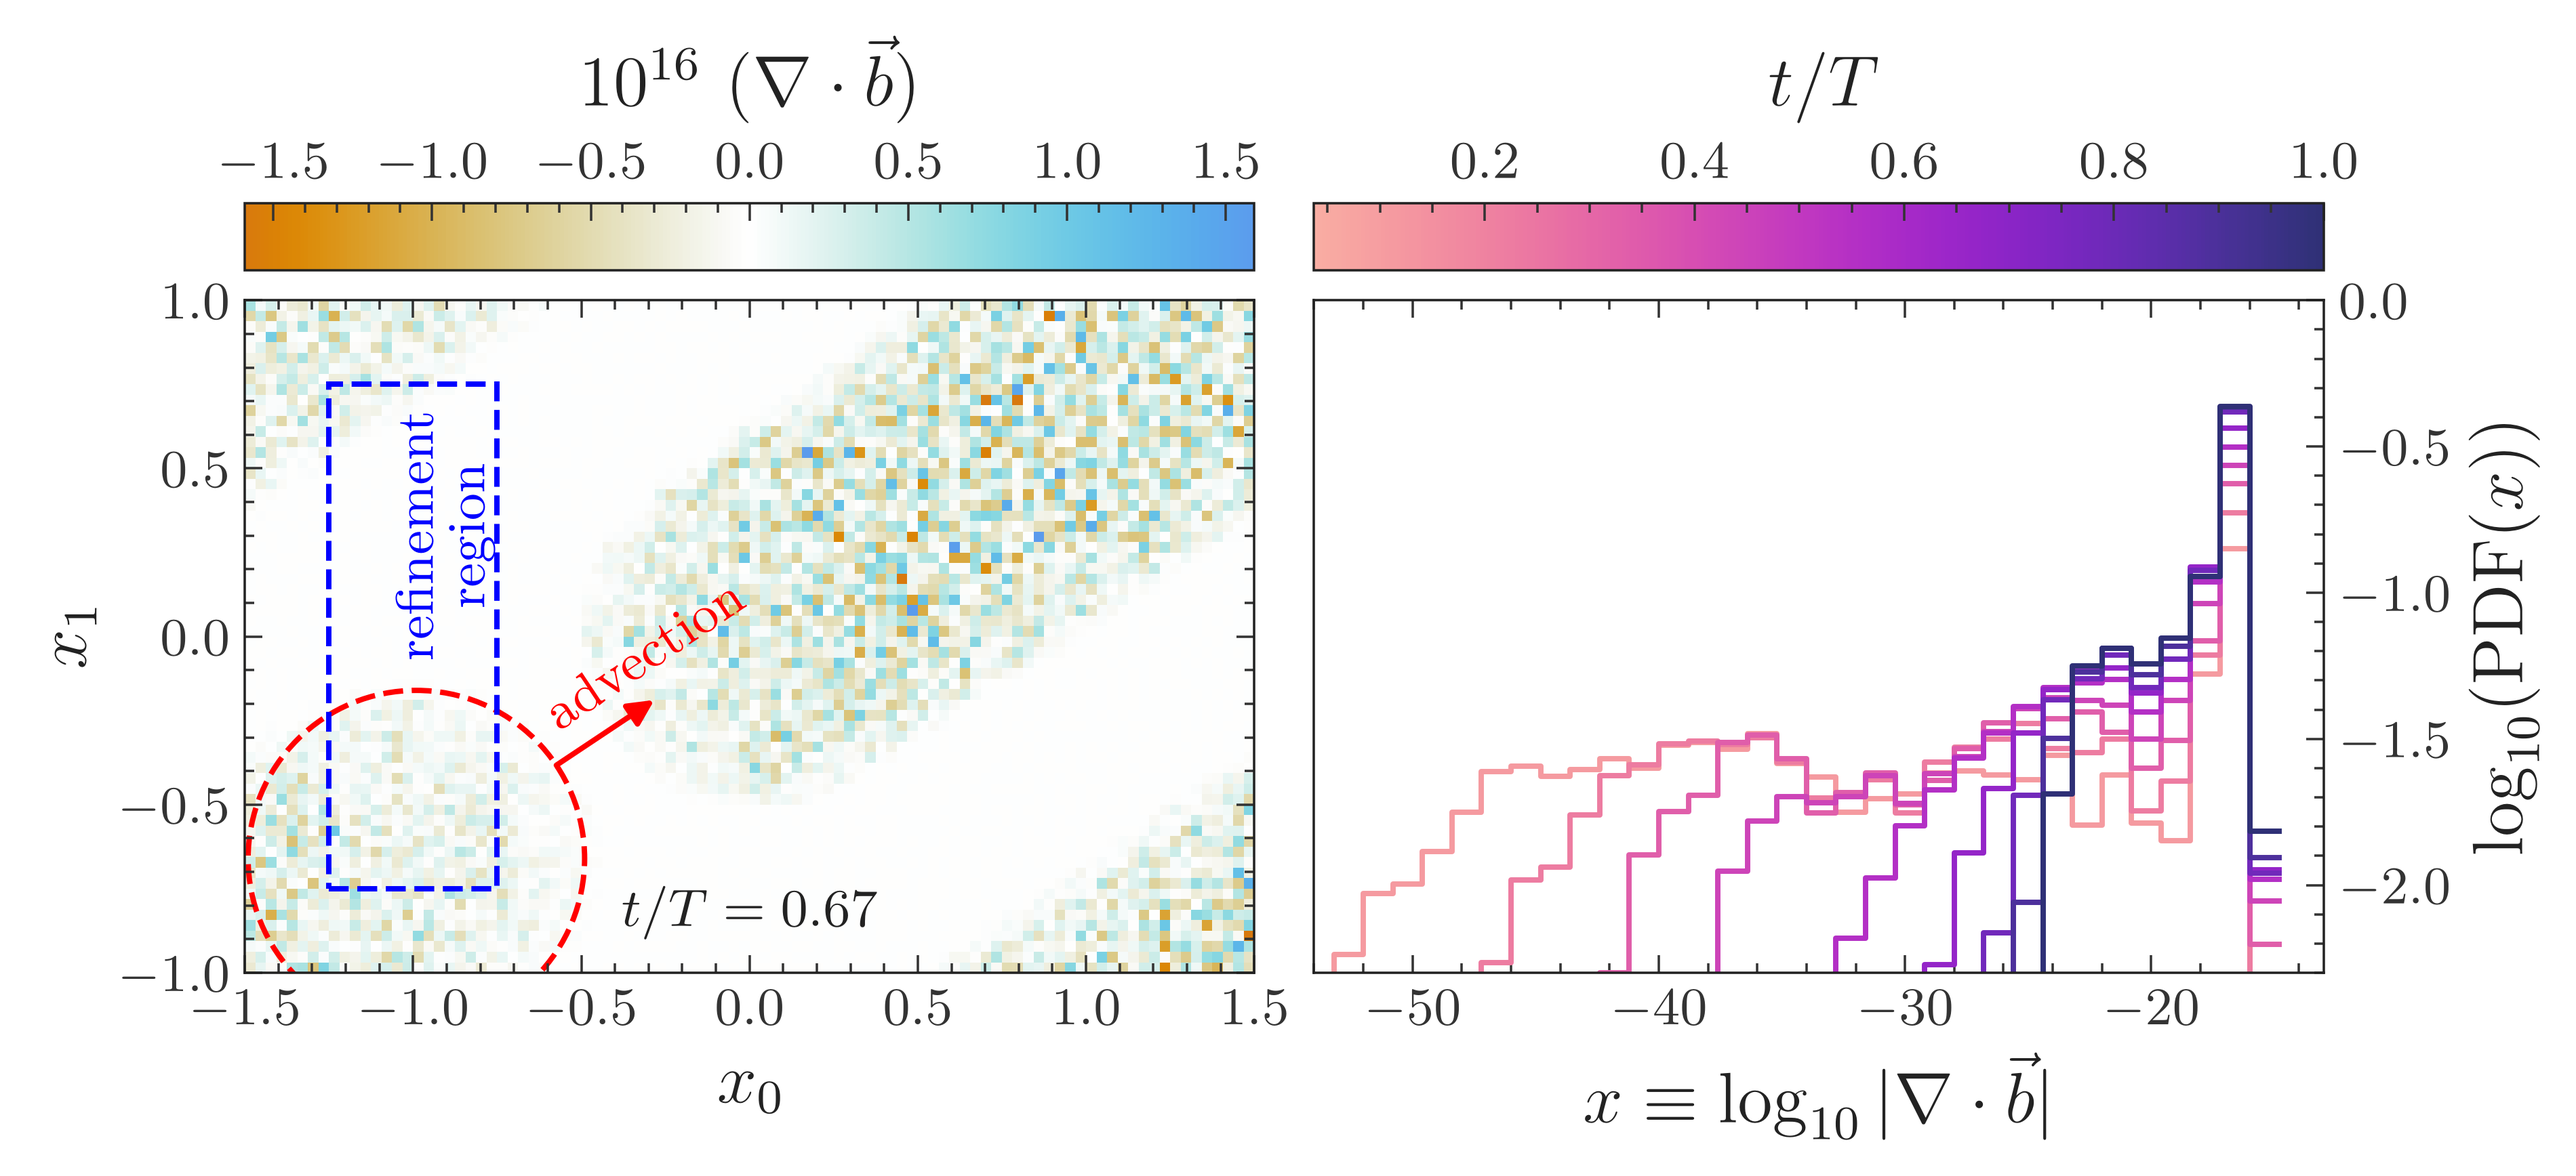
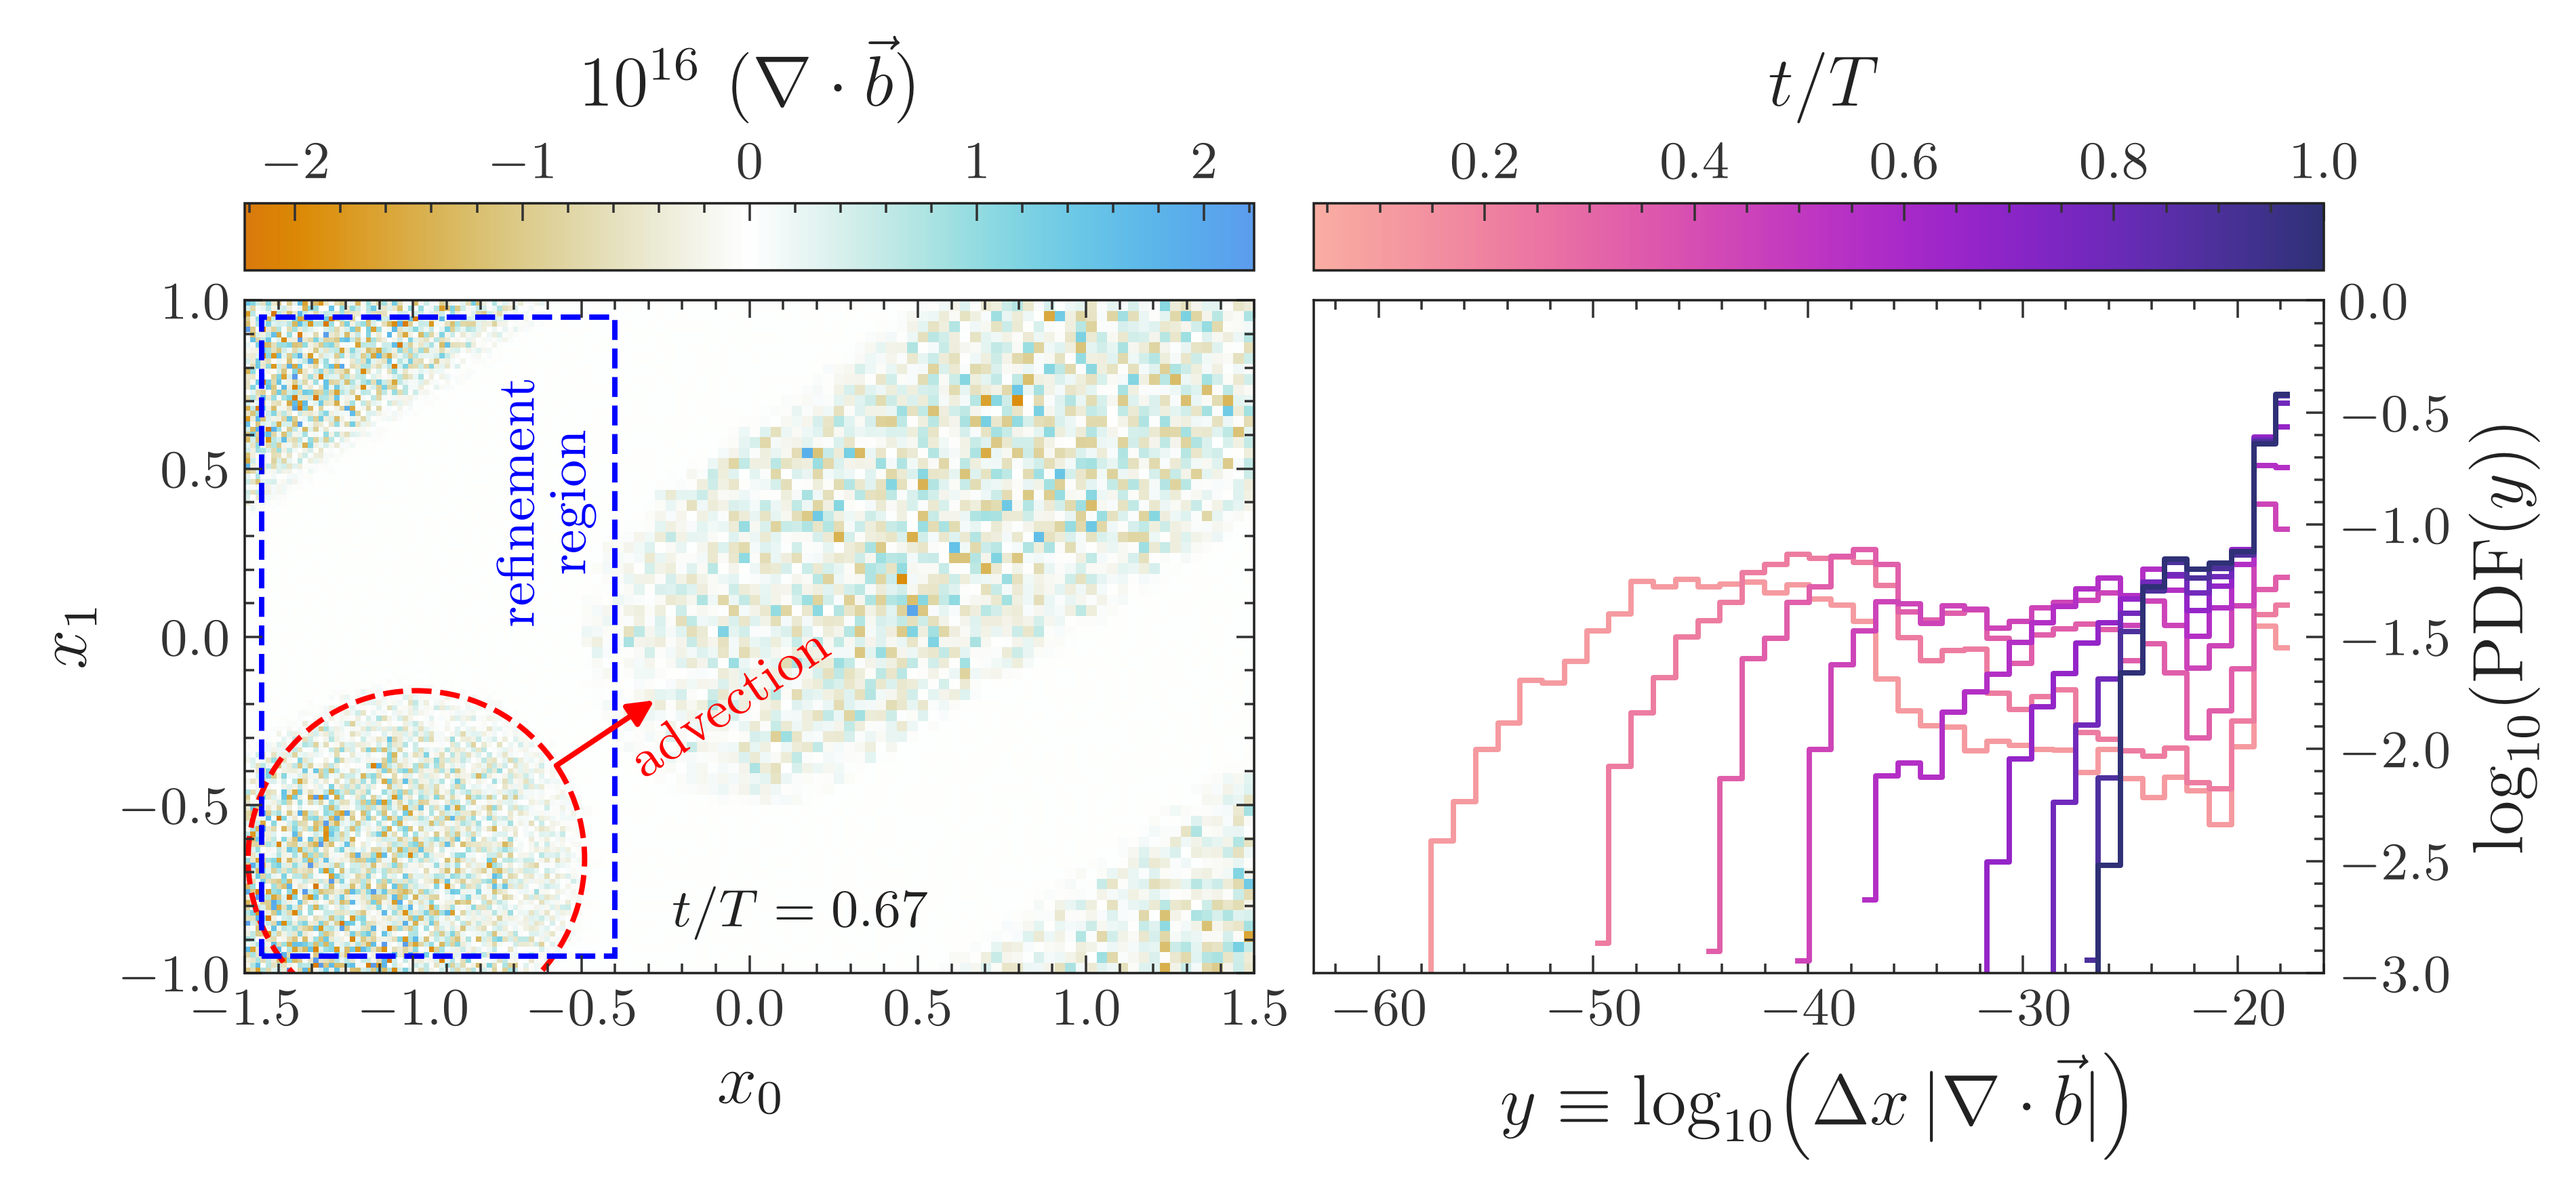
update-content(scripts/problems/field-loop/plot_div_b.py): migrate to pdfs/slices diagnostics; retune arrow and inset placement.

diff --git a/scripts/problems/field-loop/plot_div_b.py b/scripts/problems/field-loop/plot_div_b.py
@@ -16,7 +16,6 @@ from matplotlib import patches as mpl_patches
 from numpy import typing as numpy_typing
 
 ## personal
-from jormi.ww_arrays import compute_array_stats
 from jormi.ww_io import manage_io
 from jormi.ww_plots import (
     add_color,
@@ -26,7 +25,8 @@ from jormi.ww_plots import (
     style_figure,
 )
 from jormi.ww_types import box_positions
-from ww_quokka_sims.sim_io import find_snapshots
+from ww_quokka_sims.sim_io.field_diagnostics import pdfs, slices
+from ww_quokka_sims.sim_io.snapshots import find_snapshots
 
 ## local
 from local_helpers import paper_style
@@ -34,12 +34,6 @@ from local_helpers import paper_style
 ##
 ## === DATA STRUCTURES
 ##
-
-
-@dataclass(frozen=True)
-class Slice:
-    step_time: float
-    sarray_2d: numpy_typing.NDArray[numpy.floating]
 
 
 @dataclass(frozen=True)
@@ -67,18 +61,6 @@ AXIS_BOUNDS: plot_data.AxisRanges = ((-1.5, 1.5), (-1.0, 1.0))
 ##
 
 
-def load_slice(
-    *,
-    slice_path: Path,
-) -> Slice:
-    """Load the time and two-dimensional field from one saved slice."""
-    with numpy.load(slice_path) as data:
-        return Slice(
-            step_time=float(data["step_time"]),
-            sarray_2d=data["sarray_2d"],
-        )
-
-
 def compute_symmetric_bounds(
     *,
     field: numpy_typing.NDArray[numpy.floating],
@@ -91,15 +73,6 @@ def compute_symmetric_bounds(
         ),
     )
     return (-bound, bound)
-
-
-def compute_log10_absolute_divb(
-    *,
-    sarray_2d: numpy_typing.NDArray[numpy.floating],
-) -> numpy_typing.NDArray[numpy.floating]:
-    """Drop zero/non-finite cells (outside the loop), then take log10 of the magnitude."""
-    nonzero_finite = numpy.isfinite(sarray_2d) & (sarray_2d != 0.0)
-    return numpy.log10(numpy.abs(sarray_2d[nonzero_finite]))
 
 
 def compute_loop_center_at_time(
@@ -156,11 +129,11 @@ def add_advection_arrow(
         },
     )
     panel.text(
-        arrow_start[0] + 0.025,
-        arrow_start[1] + 0.075,
+        arrow_start[0] + 0.2,
+        arrow_start[1] + 0.05,
         "advection",
         ha="left",
-        va="bottom",
+        va="top",
         color="red",
         rotation=180 / numpy.pi * numpy.atan(2 / 3),
         rotation_mode="anchor",
@@ -177,53 +150,36 @@ def plot_pdf_panel(
     *,
     panel: manage_figure.Panel,
     problem_setup: ProblemSetup,
-    divb_series: tuple[Slice, ...],
+    divb_pdf_series: tuple[pdfs.PDFData, ...],
 ) -> None:
-    num_pdf_bins = 50
     num_pdf_times = 10
     figure_params = style_figure.get_figure_params()
-    finite_slices = [
-        divb_slice for divb_slice in divb_series
-        if numpy.any(numpy.isfinite(divb_slice.sarray_2d) & (divb_slice.sarray_2d != 0.0))
-    ]
-    sampled_indices = numpy.linspace(0, len(finite_slices) - 1, num_pdf_times, dtype=int)
-    sampled_slices = [finite_slices[index] for index in sampled_indices]
-    pdf_bin_edges = numpy.linspace(-70, -10, num_pdf_bins + 1)
-    pdf_bin_centers = 0.5 * (pdf_bin_edges[:-1] + pdf_bin_edges[1:])
+    sampled_indices = numpy.linspace(0, len(divb_pdf_series) - 1, num_pdf_times, dtype=int)
+    sampled_pdfs = [divb_pdf_series[index] for index in sampled_indices]
     time_palette = add_color.make_palette(
         config=add_color.SequentialConfig(
             palette_name="cmr.bubblegum_r",
             palette_range=(0.05, 0.85),
         ),
         value_range=(
-            divb_series[1].step_time / problem_setup.period,
-            divb_series[-1].step_time / problem_setup.period,
+            divb_pdf_series[1].step_time / problem_setup.period,
+            divb_pdf_series[-1].step_time / problem_setup.period,
         ),
     )
-    for sample_slice in sampled_slices[1:]:
-        log10_absolute_divb = compute_log10_absolute_divb(sarray_2d=sample_slice.sarray_2d)
-        estimated_pdf = compute_array_stats.estimate_pdf(
-            values=log10_absolute_divb,
-            bin_centers=pdf_bin_centers,
-        )
-        log10_pdf = numpy.ma.log10(
-            numpy.ma.masked_less_equal(
-                estimated_pdf.densities,
-                0.0,
-            ),
-        )
+    for pdf_data in sampled_pdfs[1:]:
+        bin_centers, log10_pdf = pdf_data.get_pdf(0)
         finite_pdf = numpy.isfinite(log10_pdf)
-        curve_color = time_palette.mpl_cmap(time_palette.mpl_norm(sample_slice.step_time / problem_setup.period))
+        curve_color = time_palette.mpl_cmap(time_palette.mpl_norm(pdf_data.step_time / problem_setup.period))
         panel.step(
-            estimated_pdf.bin_centers[finite_pdf],
+            bin_centers[finite_pdf],
             log10_pdf[finite_pdf],
             where="mid",
             color=curve_color,
         )
-    panel.set_xlabel(r"$x \equiv \log_{10}|\nabla \cdot \vec{b}|$")
-    panel.set_ylabel(r"$\log_{10}\!\left(\mathrm{PDF}(x)\right)$")
-    panel.set_xlim(-54, -13)
-    panel.set_ylim(-2.3, 0.0)
+    panel.set_xlabel(r"$y \equiv \log_{10}\!\left(\Delta x\,|\nabla \cdot \vec{b}|\right)$")
+    panel.set_ylabel(r"$\log_{10}\!\left(\mathrm{PDF}(y)\right)$")
+    panel.set_xlim(-63, -16)
+    panel.set_ylim(-3, 0)
     panel.yaxis.set_label_position("right")
     panel.yaxis.tick_right()
     axis_width = AXIS_BOUNDS[0][1] - AXIS_BOUNDS[0][0]
@@ -245,7 +201,7 @@ def plot_slice_panel(
     *,
     panel: manage_figure.Panel,
     problem_setup: ProblemSetup,
-    divb_slice: Slice,
+    divb_slice: slices.SlicedField,
 ) -> None:
     """Plot the div-b slice nearest the chosen target time, with a colorbar and a time label."""
     figure_params = style_figure.get_figure_params()
@@ -291,7 +247,9 @@ def plot_slice_panel(
             linewidth=artist_params.line_width_pt,
         ),
     )
-    amr_region_bounds: plot_data.AxisRanges = ((-1.25, -0.75), (-0.75, 0.75))
+    ## inset from the realized footprint ((-1.5, -0.5), (-1.0, 1.0)), purely so the box
+    ## reads clearly against the panel frame rather than flush with its border
+    amr_region_bounds: plot_data.AxisRanges = ((-1.45, -0.4), (-0.95, 0.95))
     (amr_x_lo, amr_x_hi), (amr_y_lo, amr_y_hi) = amr_region_bounds
     panel.add_patch(
         mpl_patches.Rectangle(
@@ -311,8 +269,8 @@ def plot_slice_panel(
     )
     annotate_panel.add_text(
         panel=panel,
-        x_pos_fraction=0.15,
-        y_pos_fraction=0.65,
+        x_pos_fraction=0.25,
+        y_pos_fraction=0.7,
         label=r"\shortstack{refinement\\region}",
         rotate_deg=90.0,
         x_alignment=box_positions.Positions.Side.Left,
@@ -323,7 +281,7 @@ def plot_slice_panel(
     panel.set_ylabel(r"$x_1$")
     annotate_panel.add_text(
         panel=panel,
-        x_pos_fraction=0.5,
+        x_pos_fraction=0.55,
         y_pos_fraction=0.05,
         label=rf"$t / T = {divb_slice.step_time / problem_setup.period:.2f}$",
         x_alignment=box_positions.Positions.Center.Center,
@@ -334,8 +292,8 @@ def plot_slice_panel(
 def plot_field_loop_divb(
     *,
     problem_setup: ProblemSetup,
-    divb_series: tuple[Slice, ...],
-    divb_slice: Slice,
+    divb_pdf_series: tuple[pdfs.PDFData, ...],
+    divb_slice: slices.SlicedField,
 ) -> mpl_figure.Figure:
     figure, panel_grid = manage_figure.create_figure_grid(
         num_panel_rows=1,
@@ -353,7 +311,7 @@ def plot_field_loop_divb(
     plot_pdf_panel(
         panel=panel_grid[0, 1],
         problem_setup=problem_setup,
-        divb_series=divb_series,
+        divb_pdf_series=divb_pdf_series,
     )
     return figure
 
@@ -369,15 +327,16 @@ def main() -> None:
         directory=FIGURE_PATH.parent,
         verbose=False,
     )
-    divb_glob = "magnetic_divergence-slice=x_2-index=*.npz"
-    divb_paths = sorted(DATASET_DIR.glob(divb_glob))
-    if not divb_paths:
-        raise FileNotFoundError(f"no slice matching `{divb_glob}` found in: {DATASET_DIR}")
-    divb_series = tuple(load_slice(slice_path=divb_path) for divb_path in divb_paths)
-    divb_slice = load_slice(
-        slice_path=find_snapshots.find_npz_near_time(
+    divb_slice_glob = "divb-slice=x_2-index=*.npz"
+    divb_pdf_glob = "divb_dimensionless-pdf-index=*.json"
+    divb_pdf_paths = sorted(DATASET_DIR.glob(divb_pdf_glob))
+    if not divb_pdf_paths:
+        raise FileNotFoundError(f"no PDF matching `{divb_pdf_glob}` found in: {DATASET_DIR}")
+    divb_pdf_series = tuple(pdfs.PDFData.load_from_file(divb_pdf_path) for divb_pdf_path in divb_pdf_paths)
+    divb_slice = slices.SlicedField.load_from_file(
+        find_snapshots.find_npz_near_time(
             extracted_dir=DATASET_DIR,
-            glob_pattern=divb_glob,
+            glob_pattern=divb_slice_glob,
             target_time=2.4155,
         ),
     )
@@ -390,7 +349,7 @@ def main() -> None:
     )
     figure = plot_field_loop_divb(
         problem_setup=problem_setup,
-        divb_series=divb_series,
+        divb_pdf_series=divb_pdf_series,
         divb_slice=divb_slice,
     )
     manage_figure.save_figure(
